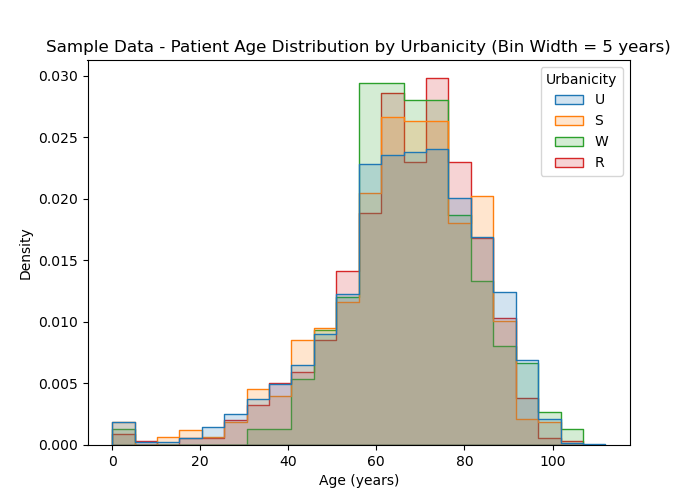
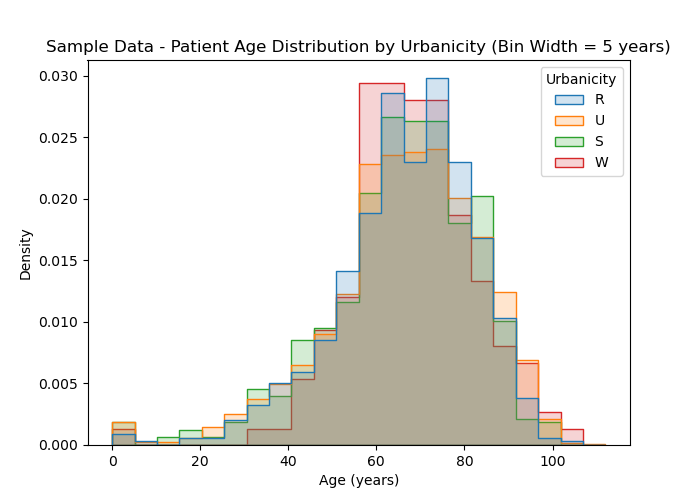
fixing chart order error

diff --git a/src/data/eda_charts_sample.py b/src/data/eda_charts_sample.py
@@ -23,7 +23,7 @@ def main():
 
     # hue-mapped histogram of age by urbanicity
     plt.figure(figsize=(7, 5))
-    sns.histplot(data=df, x="ageinyear", hue="Urbanicity", element="step", stat="density", common_norm=False, binwidth=5, alpha=0.2)
+    sns.histplot(data=df, x="ageinyear", hue="Urbanicity", hue_order = ['R', 'U', 'S', 'W'], element="step", stat="density", common_norm=False, binwidth=5, alpha=0.2)
     plt.title("Sample Data - Patient Age Distribution by Urbanicity (Bin Width = 5 years)")
     plt.xlabel("Age (years)")
     plt.ylabel("Density")
